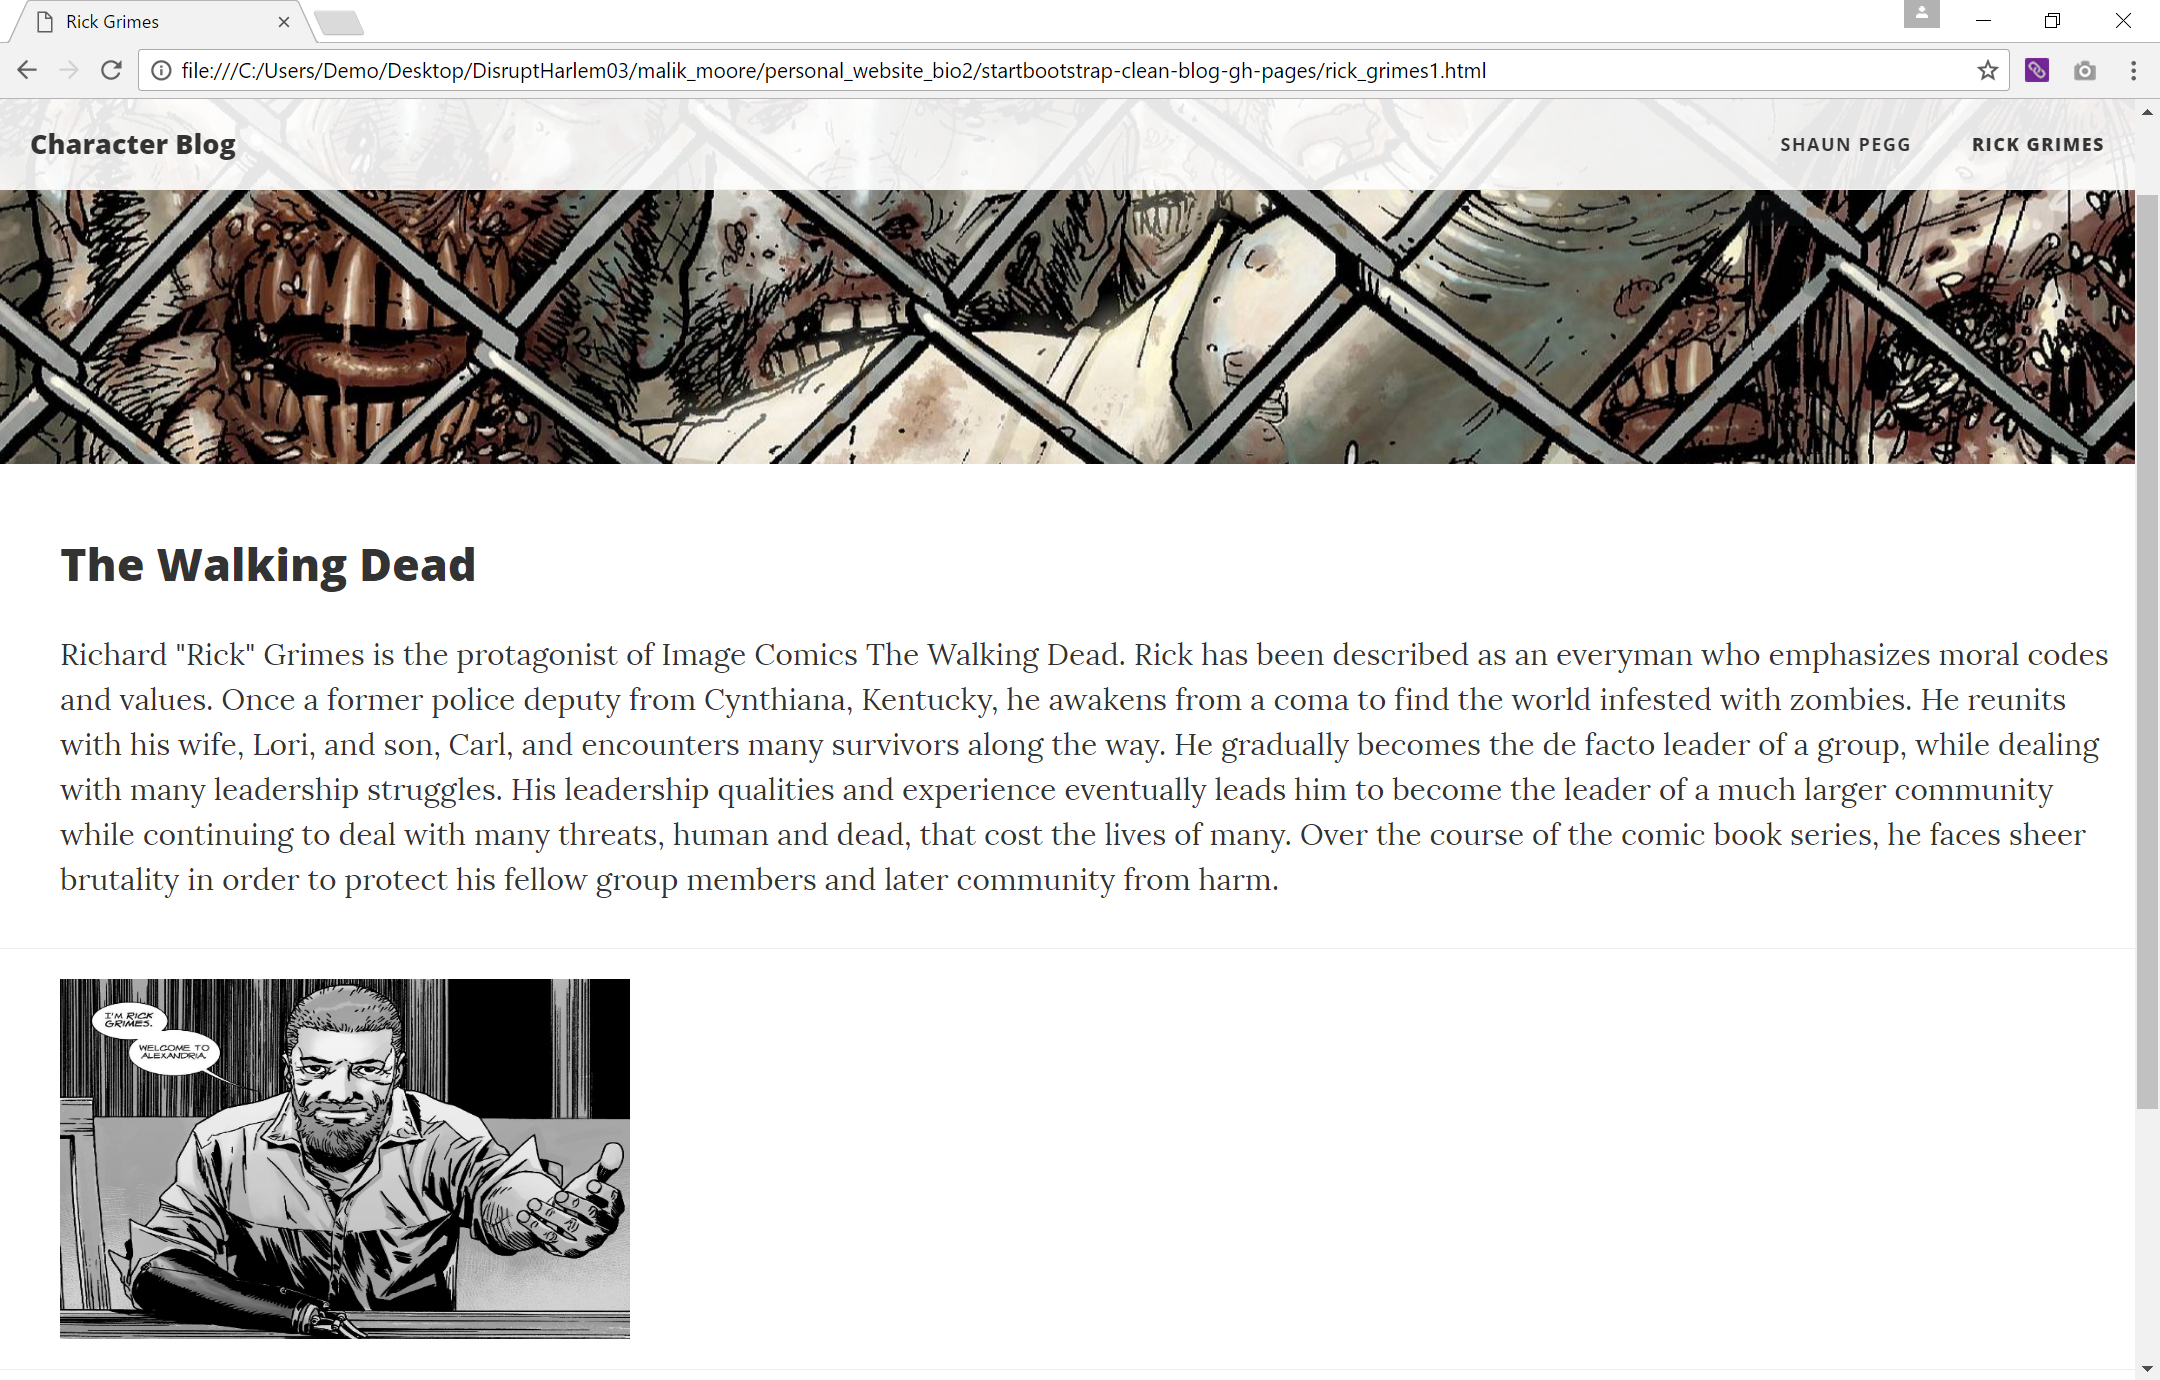
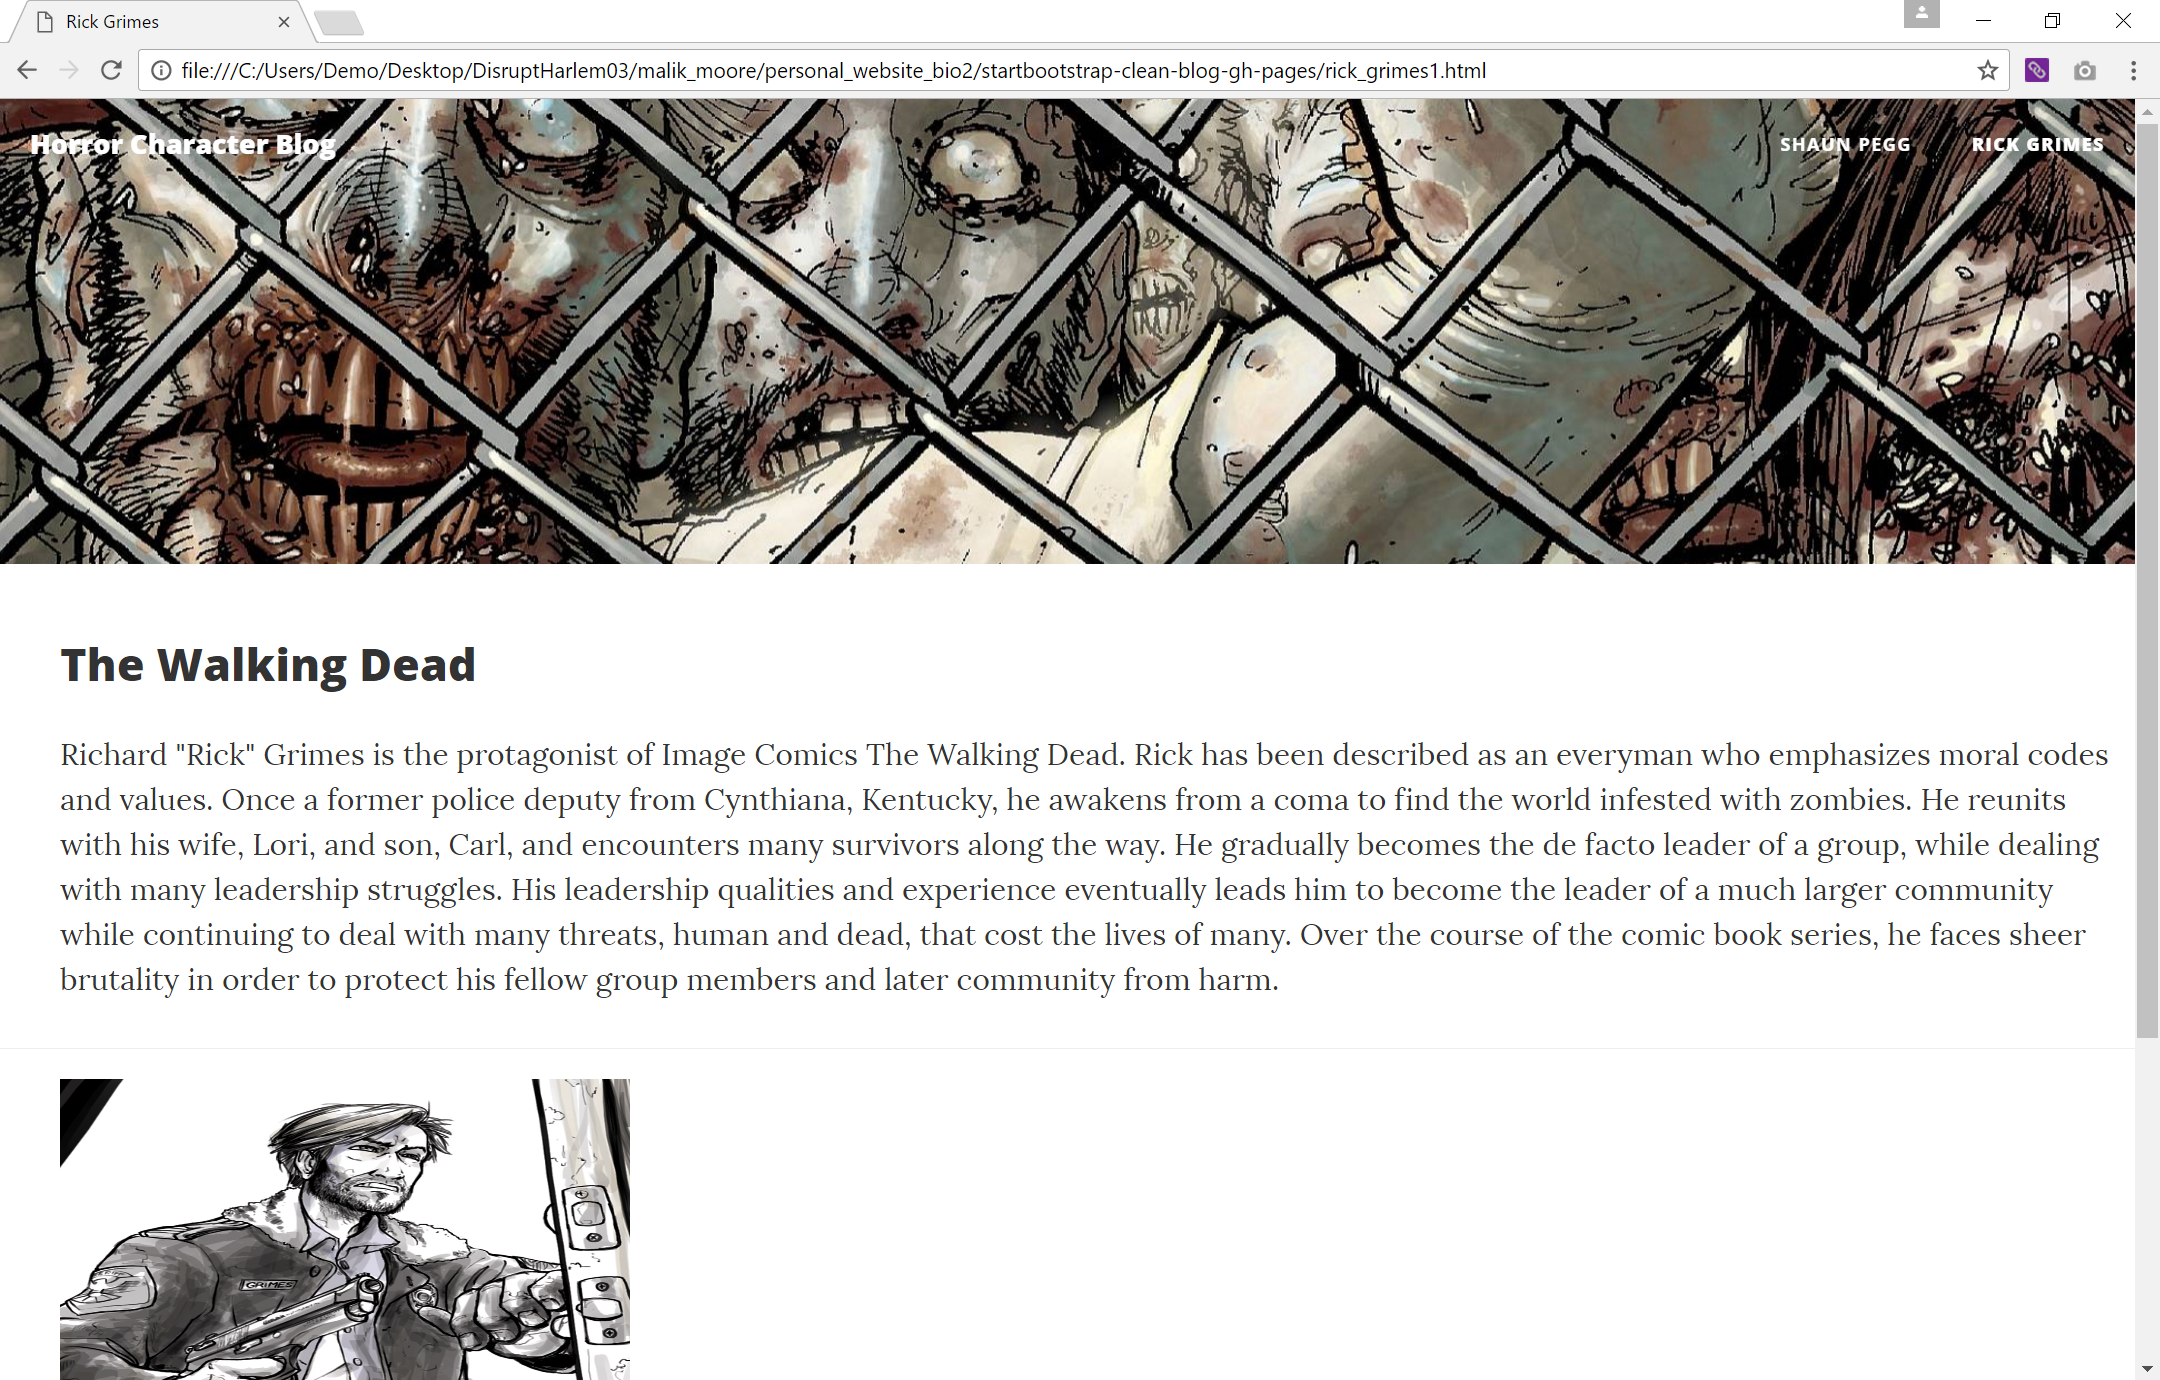
stuff

diff --git a/malik_moore/poem_website/seven-poems-clean-blog/about.html b/malik_moore/poem_website/seven-poems-clean-blog/about.html
@@ -96,12 +96,12 @@ article {
        </header>
 
 <h2>Seven Poems</h2>
-<p>Seven Poems is a website for anyone who wants to share a poem they have written while also being able to read some created by others. Also if you wish to find inspiration, want to relax, or find something to read briefly. The home page will always feature the seven poems posted everyday. On the Submit page, you can find out how to send a poem. You will also find the sites email where you can send any further questions. Lastly on the Events page, you will find upcoming writing events where you can meet others who share your interest. We try to have as many upcoming events as possible to build up different writing communities.</p>
+<p>Seven Poems is a website for anyone who wants to share a poem they have written while also being able to read some created by others. Also if you wish to find inspiration, want to relax, or find something to read briefly. The home page will always feature the seven poems posted everyday. On the Submit page, you can find out how to send a poem. You will also find the sites email to ask any further questions. On the Events page, you will find upcoming writing events where you can meet others who share your interest. We try to have as many upcoming events as possible to build up different writing communities.</p>
 
 <hr>
 
 <h2>Favorite Poems of (Month)</h2>
-<p>On the first day of each month, we have a page dedicated to poems from the previous month we personally liked and the original date they were posted. On the first day of the new year, a poem is selected from each month of the previous year and featured in a Favorite Poems of (Year) on the same page. Along with that list, a Favorite Poems of December is still present. The Year list is removed at the start of February. Please note the order of any poems are not listed in a favorite/least favorite order but instead reflect the order in which they would be posted. Also if your poem does not make it, do not feel down about it! It won't stop another poem you created from being featured!</p>
+<p>On the first day of each month, we have a page dedicated to poems from the previous month we personally liked and the original date they were posted. Please note the order of the poems on this site is not listed in a most/least favorite order but instead reflect the order in which they were sent.</p>
 <hr>
   
     <!-- Footer -->

diff --git a/malik_moore/poem_website/seven-poems-clean-blog/submit.html b/malik_moore/poem_website/seven-poems-clean-blog/submit.html
@@ -100,9 +100,9 @@ article {
     </header>
 
     <h2>How To Submit A Poem</h2>
-    <p>If you wish to submit a poem you created, just send it to this email: seven7poems@gmail.com. You can also tell us to put your name (full, first, middle last, or just an alias) and email, if you would like others to contact you. You can always submit a poem anonymously as well. Worried that your poem may not show up or you'll miss it? Do not worry, we will send a email back to let you know your poem is up and please be patient as we may get a lot of submissions. We will try to avoid having more than one poem from the same person on the same day. Poems are updated around 8am est (realistically around 10am est).</p>
+    <p>If you wish to send us a poem you created, you can fill out the form below to submit it. You can also tell us to put your name (full, first, middle, last, or just an alias) and email, if you would like others to contact you. You can always submit a poem anonymously as well. Worried that your poem may not show up or you'll miss it? Do not worry, we will send a email back to let you know your poem is up and please be patient as we may get a lot of submissions. We will try to avoid having more than one poem from the same person on the same day. Poems are updated around 10am est. If you have any further questions, please email us at: seven7poems@gmail.com</p>
   <hr>
-    <h2>KEEP IN MIND</h2>
+    <h2>Please Keep In Mind</h2>
     <p>We will not deny a submission unless the poem is proven to be stolen or deemed too inappropriate. We will also send a email explaining why if that were ever to happen. If you see a poem stolen from you, please contact us and we will work to resolve the issue, also giving you proper credit.</p>
     <br />
   <div>

diff --git a/malik_moore/poem_website/seven-poems-clean-blog/seven_month.html b/malik_moore/poem_website/seven-poems-clean-blog/seven_month.html
@@ -35,8 +35,8 @@ article {
       padding: 20px;
       margin: 0 auto;
     }
-    .welcome {
-    padding-left: 20px
+    .november {
+    padding-left: 40px
 }
         </style>
 </head>
@@ -92,9 +92,9 @@ article {
         </div>
     </header>
 
-<div class="welcome">
+<div class="november">
 <h1>November 2016</h1>
-<p>On the first day of each month, we have a page dedicated to poems from the previous month we personally liked and the original date they were posted. For more information, please head over to the About page. Below are our favorite poems of November 2016</p>
+<p>On the first day of each month, we have a page dedicated to poems from the previous month we personally liked and the original date they were posted. Below are our favorite poems of November 2016</p>
 </div>
 
 <hr>

diff --git a/malik_moore/personal_website_bio2/startbootstrap-clean-blog-gh-pages/rick_grimes1.html b/malik_moore/personal_website_bio2/startbootstrap-clean-blog-gh-pages/rick_grimes1.html
@@ -96,7 +96,7 @@ Menu <i class="fa fa-bars"></i>
 
 <hr>
 
-<img src = "http://vignette1.wikia.nocookie.net/walkingdead/images/e/e7/Rick_Grimes_127_-_1.png/revision/latest?cb=20140514074455" height="240" width="420">
+<img src = "http://static.comicvine.com/uploads/original/14/142946/4046493-4733609495-rick_.jpg" height="240" width="420">
 
 <hr>
 
